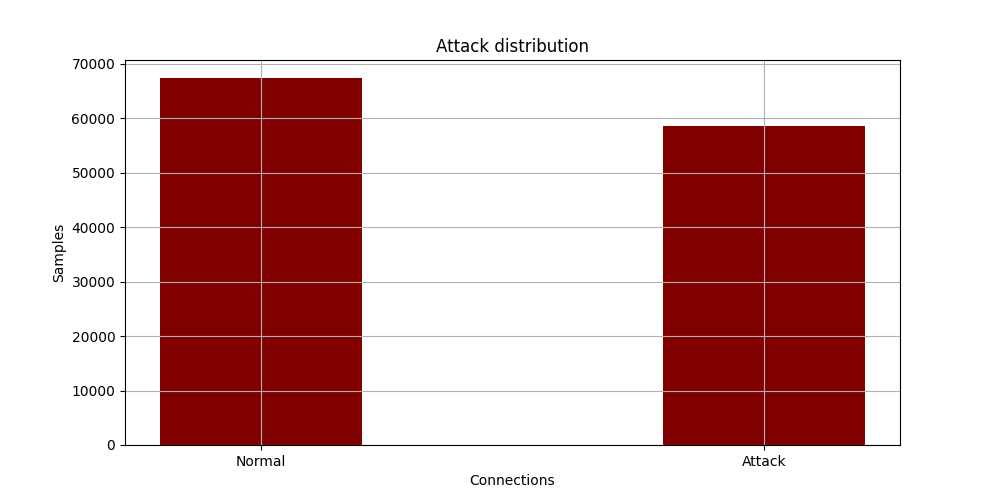
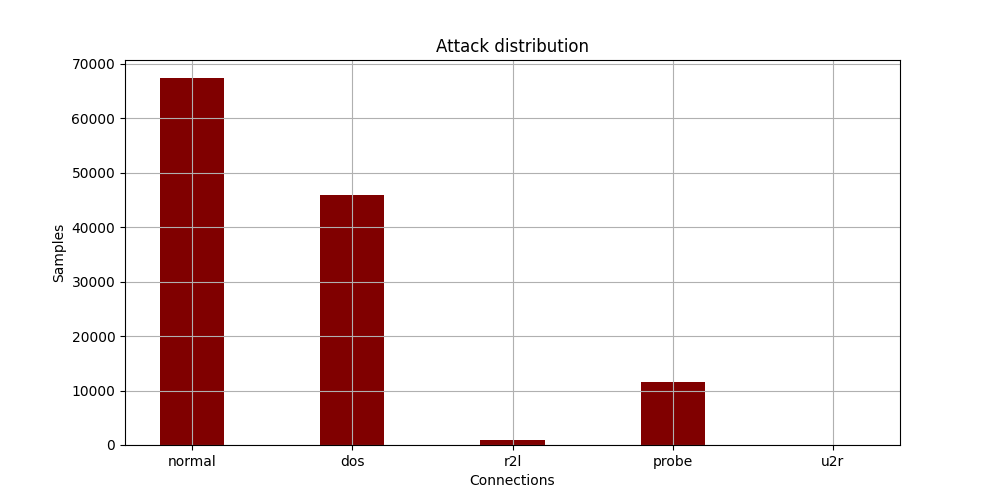
Added class for stat distribution graph

Changed region(s): [[0.62, 0.24, 0.868, 0.93], [0.155, 0.15, 0.403, 0.93], [0.465, 0.87, 0.558, 0.93]]

diff --git a/distributions.py b/distributions.py
@@ -7,83 +7,18 @@ from scipy.stats import multinomial
 import matplotlib.pyplot as plt
 import NSL_KDD
 
-def attack(path):
-    """Graph a distribution between normal and malicious connections"""
-    dataset_name = path.split("/")[-1].split(".")[0]
-    df = stats.distribution(path)
-    keys = list(df.keys())
-    values = list(df.values())
-    # Plotting the graph
-    plots.bar_graph(path, dataset_name, keys, values, "Connection_dist", "Connections", "Samples", "Attack distribution", "distributions")
-
-def types(path):
-    """Graph a distribution of attack types"""
-    dataset_name = path.split("/")[-1].split(".")[0]
-    df = stats.attack_types(path)
-    keys = list(df.keys())
-    values = list(df.values())
-    # Plotting the graph
-    plots.bar_graph(path, dataset_name, keys, values, "Attack_dist", "Attacks", "Samples", "Attack distribution", "distributions")
-
-def classes(path):
-    """Graph a distribution of attack classes"""
-    dataset_name = path.split("/")[-1].split(".")[0]
-    df = stats.attack_subtypes(path)
-    keys = list(data[x].keys())
-    values = list(data[x].values())
-    # Plotting the graph
-    plots.bar_graph(path, dataset_name, keys, values, f"Class_dist-{x+1}", "Classes", "Samples", "Class distribution", "distributions")
-
-def bernoulli(path):
-    # Count total values and normal values
-    dataset_name = path.split("/")[-1].split(".")[0]
-    normal = 0
-    df = NSL_KDD.dataframe(path)
-    total = len(df.values)
-    attack_types = df['attack_type'].values
-    for attack_type in attack_types:
-        if attack_type == 'normal':
-            normal += 1
-    # Set parameters for Bernoulli trial
-    n = total
-    p = normal/total
-    # Defining list of r values
-    r_values = list(range(n + 1))
-    # Obtaining the mean and variance
-    mean, var = binom.stats(n, p)
-    # List of pmf values
-    dist = [binom.pmf(r, n, p) for r in r_values]
-    # Printing mean and variance
-    print(f"Mean = {str(mean)}")
-    print(f"Variance = {str(var)}")
-    # Plotting the graph
-    plots.bar_graph(path, dataset_name, r_values, dist, "Bernoulli", "Data samples", "Probability", "Bernoulli distribution", "distributions")
-
-def poisson():
-    pass
-
-def normal():
-    pass
-
-def multinomial():
-    path = "data/NSL_KDD/KDDTrain+.txt"
-    dataset_name = path.split("/")[-1].split(".")[0]
-    normal = 0
-    df = NSL_KDD.dataframe(path)
-    total = len(df.values)
-    unique = df['attack_type'].unique()
-    p1, p2, p3, p4, p5 = [0 for x in range(5)]
-    attack_types = df['attack_type'].values
-    for attack_type in attack_types:
-        if attack_type == 'normal':
-            p1 += 1
-        elif attack_type == 'dos':
-            p2 += 1
-        elif attack_type == 'r2l':
-            p3 += 1
-        elif attack_type == 'probe':
-            p4 += 1
-        elif attack_type == 'u2r':
-            p5 += 1
-    #print(f"Normal: {p1}, dos: {p2}, r2l: {p3}, probe: {p4}, u2r: {p5}")
-    stats = multinomial.pmf(x=[4, 5, 1, 3, 2], n=total, p=[p1/total, p2/total, p3/total, p4/total, p5/total])
+class Plot:
+    def __init__(self, path, name, dataframe, column, xlabel, ylabel, title, folder):
+        self.path = path
+        self.name = name
+        self.dataframe = dataframe
+        self.column = column
+        self.xlabel = xlabel
+        self.ylabel = ylabel
+        self.title = title
+        self.folder = folder
+    """Graph selected statistics of the dataset"""
+    def graph(self):
+        keys = list(self.dataframe.keys())
+        values = list(self.dataframe.values())
+        plots.bar_graph(self.path, self.name, keys, values, self.column, self.xlabel, self.ylabel, self.title, self.folder)

diff --git a/main.py b/main.py
@@ -9,23 +9,25 @@ import regressions
 import distributions
 import stats
 
-def draw_plots():
+def statistics():
     path = ["data/NSL_KDD/KDDTrain+.txt",
             "data/NSL_KDD/KDDTest+.txt",
             "data/NSL_KDD/KDDTrain+_20Percent.txt",
             "data/NSL_KDD/KDDTest-21.txt"]
-    for x in path:
-        distributions.attack(x)
-        distributions.types(x)
-        distributions.classes(x)
+    name = path[0].split("/")[-1].split(".")[0]
+    df = NSL_KDD.dataframe(path[0])
+    connection_stats = stats.Statistics(df, "attack_type", {})
+    connection = distributions.Plot(path[0], name, connection_stats.stats(), "Connection_dist", "Connections", "Samples", "Connection distribution", "distributions")
+    attack.graph()
+
+    plots.bar_graph(path, dataset_name, keys, values, "Attack_dist", "Attacks", "Samples", "Attack distribution", "distributions")
+    plots.bar_graph(path, dataset_name, keys, values, f"Class_dist-{x+1}", "Classes", "Samples", "Class distribution", "distributions")
+
+def algorithms():
+    models.reccurent_neural_network()
 
 def main():
-    #draw_plots()
-    print(NSL_KDD.dataframe("data/NSL_KDD/KDDTrain+.txt"))
-    #print(stats.service("data/NSL_KDD/KDDTrain+.txt"))
-    #distributions.bernoulli()
-    #distributions.multinomial()
-    #models.reccurent_neural_network()
+    statistics()
 
 if __name__ == "__main__":
     main()

diff --git a/stats.py b/stats.py
@@ -7,11 +7,11 @@ import NSL_KDD
 #  ---------
 
 class Statistics:
-    """Get unique column values and count their ocurrences"""
     def __init__(self, dataframe, column, data):
         self.dataframe = dataframe
         self.column = column
         self.data = data
+    """Get unique column values and count their ocurrences"""
     def stats(self):
         values = self.dataframe[self.column].unique()
         for value in values:

diff --git a/read_stats.py b/read_stats.py
@@ -21,7 +21,7 @@ def main():
     for x in range(len(name)):
         print(f"{name[x]}:\n{results[x]}")
     var = stats.Relations(NSL_KDD.dataframe(path[0]), "attack_type", {}, "class")
-    print(var.group())
+    print(type(var.group()))
 
 if __name__ == '__main__':
     main()
